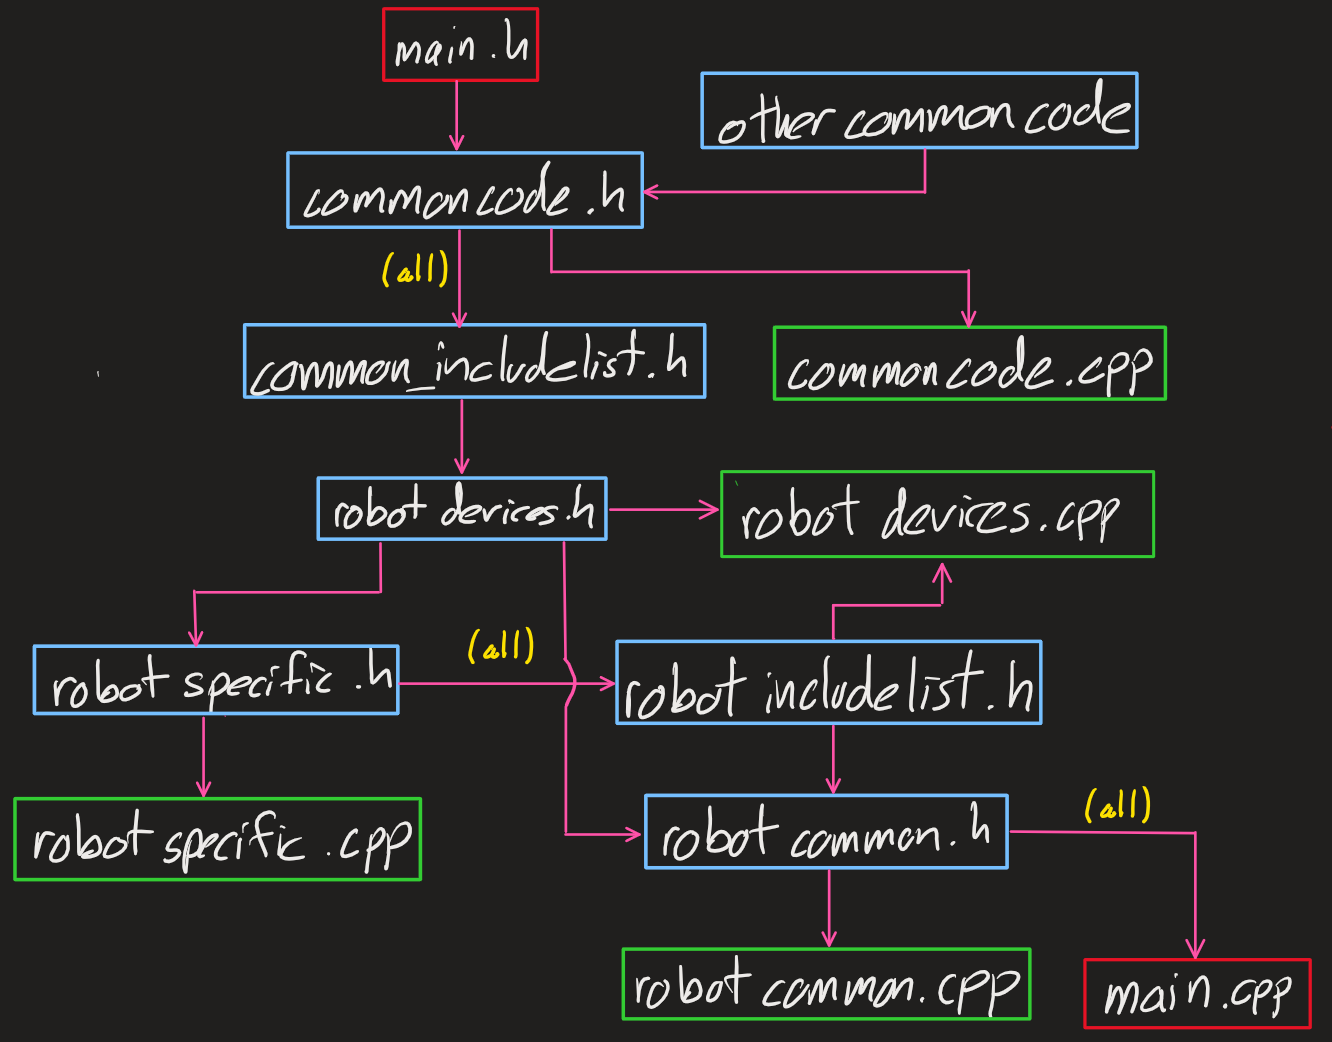
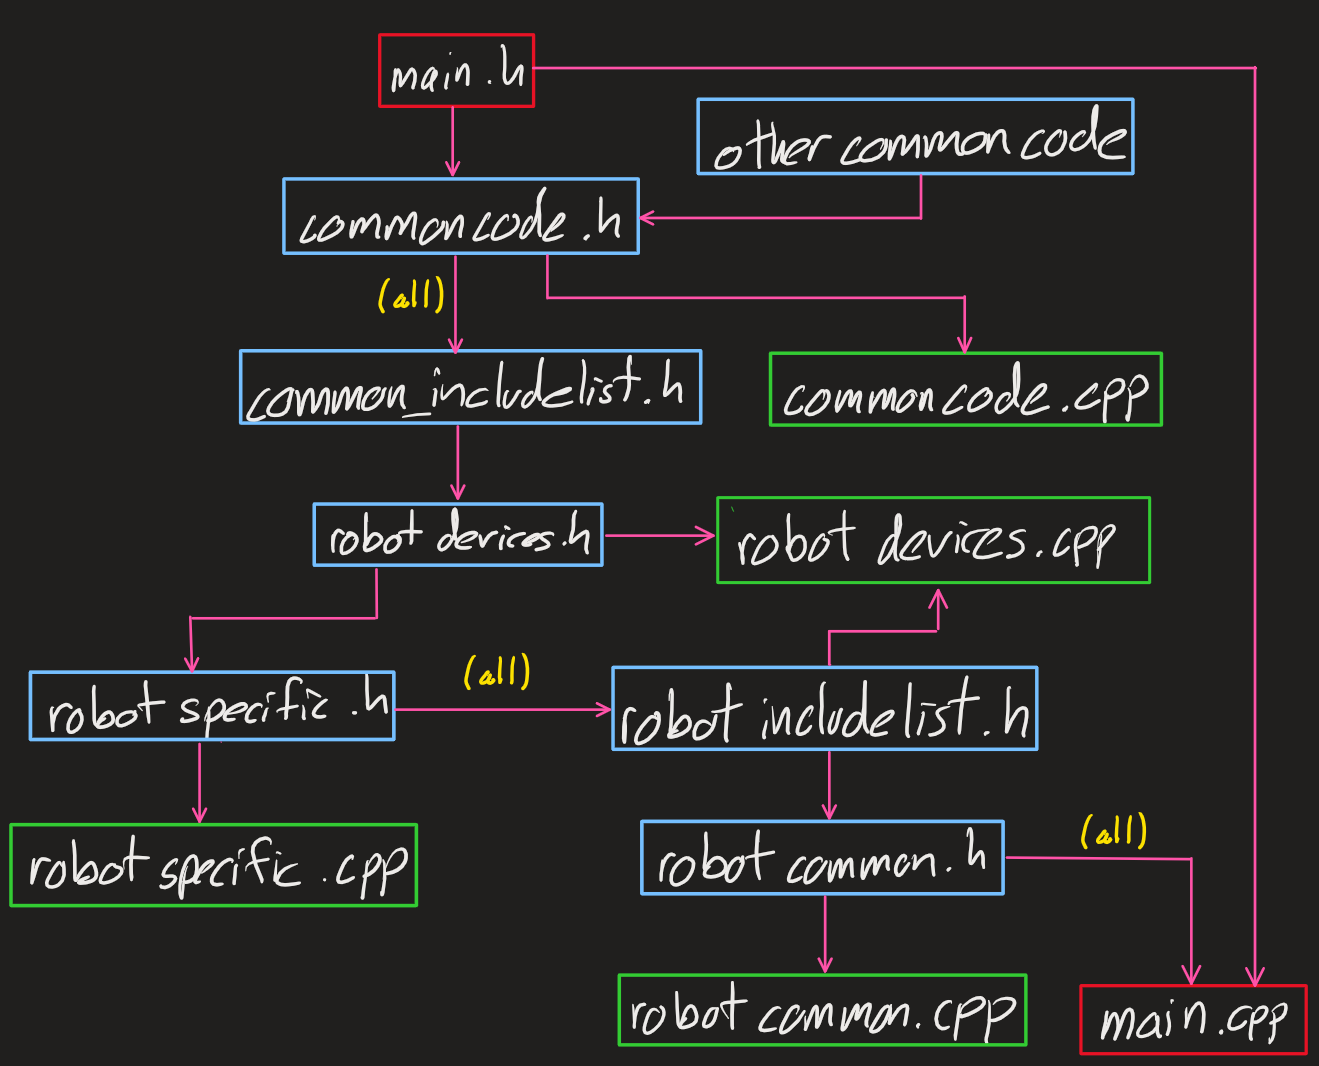
added all files to complete all includes

Changed region(s): [[0.0, 0.4299, 0.9014, 0.9827], [0.1554, 0.0, 0.9636, 0.3992], [0.8082, 0.8906, 0.9947, 1.0]]

diff --git a/src/skills-15/main.cpp b/src/skills-15/main.cpp
@@ -1,4 +1,6 @@
 #include "main.h"
+#include "robots/skills-15/auton.h"
+#include "robots/skills-15/controls.h"
 
 /* First method to run. Should last only a few seconds max. */
 void initialize() {

diff --git a/src/skills-24/main.cpp b/src/skills-24/main.cpp
@@ -1,4 +1,6 @@
 #include "main.h"
+#include "robots/skills-24/auton.h"
+#include "robots/skills-24/controls.h"
 
 /* First method to run. Should last only a few seconds max. */
 void initialize() {

diff --git a/src/comp-15/main.cpp b/src/comp-15/main.cpp
@@ -1,4 +1,6 @@
 #include "main.h"
+#include "robots/comp-15/auton.h"
+#include "robots/comp-15/controls.h"
 
 /* First method to run. Should last only a few seconds max. */
 void initialize() {

diff --git a/src/comp-24/main.cpp b/src/comp-24/main.cpp
@@ -1,4 +1,6 @@
 #include "main.h"
+#include "robots/comp-24/auton.h"
+#include "robots/comp-24/controls.h"
 
 /* First method to run. Should last only a few seconds max. */
 void initialize() {

diff --git a/include/robots/skills-15/devices.h b/include/robots/skills-15/devices.h
@@ -2,7 +2,7 @@
 #ifndef SKILLS_15_DEVICES_H
 #define SKILLS_15_DEVICES_H
 
-#include "common/common_includeList.h"
+#include "common/includeList.h"
 
 // Add all robot device externs here //
 

diff --git a/include/robots/skills-24/devices.h b/include/robots/skills-24/devices.h
@@ -2,7 +2,7 @@
 #ifndef SKILLS_24_DEVICES_H
 #define SKILLS_24_DEVICES_H
 
-#include "common/common_includeList.h"
+#include "common/includeList.h"
 
 // Add all robot device externs here //
 

diff --git a/include/robots/comp-15/devices.h b/include/robots/comp-15/devices.h
@@ -2,7 +2,7 @@
 #ifndef COMP_15_DEVICES_H
 #define COMP_15_DEVICES_H
 
-#include "common/common_includeList.h"
+#include "common/includeList.h"
 
 // Add all robot device externs here //
 

diff --git a/include/robots/comp-24/devices.h b/include/robots/comp-24/devices.h
@@ -2,7 +2,7 @@
 #ifndef COMP_24_DEVICES_H
 #define COMP_24_DEVICES_H
 
-#include "common/common_includeList.h"
+#include "common/includeList.h"
 
 // Add all robot device externs here //
 

diff --git a/src/skills-15/devices.cpp b/src/skills-15/devices.cpp
@@ -1,2 +1,2 @@
 #include "robots/skills-15/devices.h"
-#include "common/common_includeList.h"
+#include "common/includeList.h"

diff --git a/src/skills-24/devices.cpp b/src/skills-24/devices.cpp
@@ -1,2 +1,2 @@
 #include "robots/skills-24/devices.h"
-#include "common/common_includeList.h"
+#include "common/includeList.h"

diff --git a/src/comp-24/devices.cpp b/src/comp-24/devices.cpp
@@ -1,2 +1,2 @@
 #include "robots/comp-24/devices.h"
-#include "common/common_includeList.h"
+#include "common/includeList.h"

diff --git a/include/robots/comp-15/auton.h b/include/robots/comp-15/auton.h
@@ -1,2 +1,2 @@
-#include "robots/comp-15/devices.h"
+#pragma once
 #include "robots/comp-15/includeList.h"
